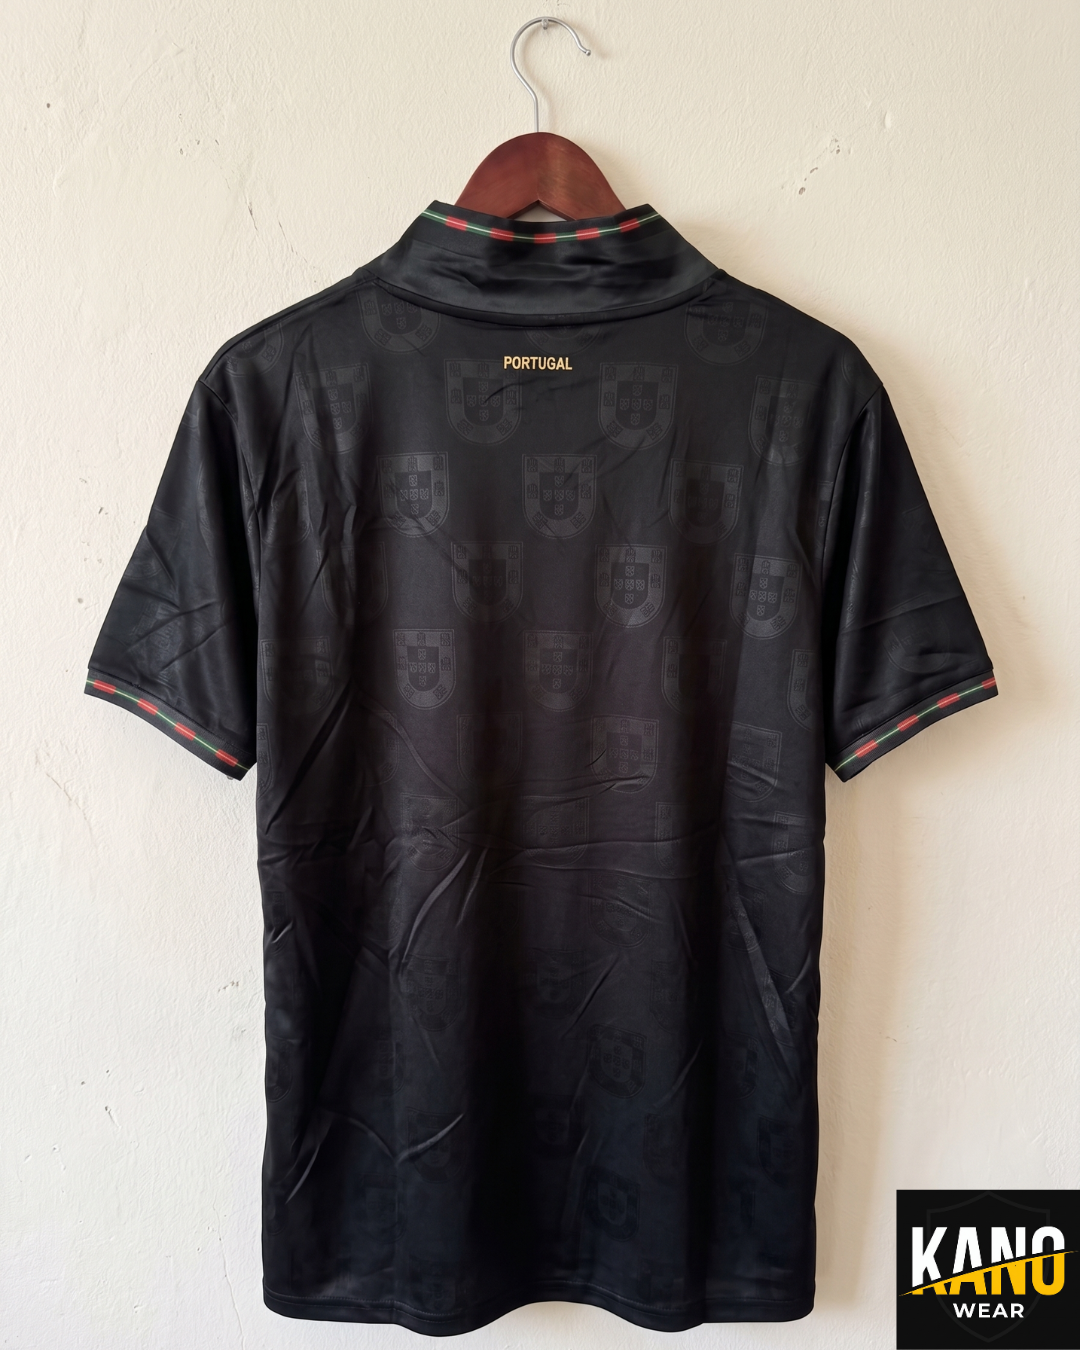
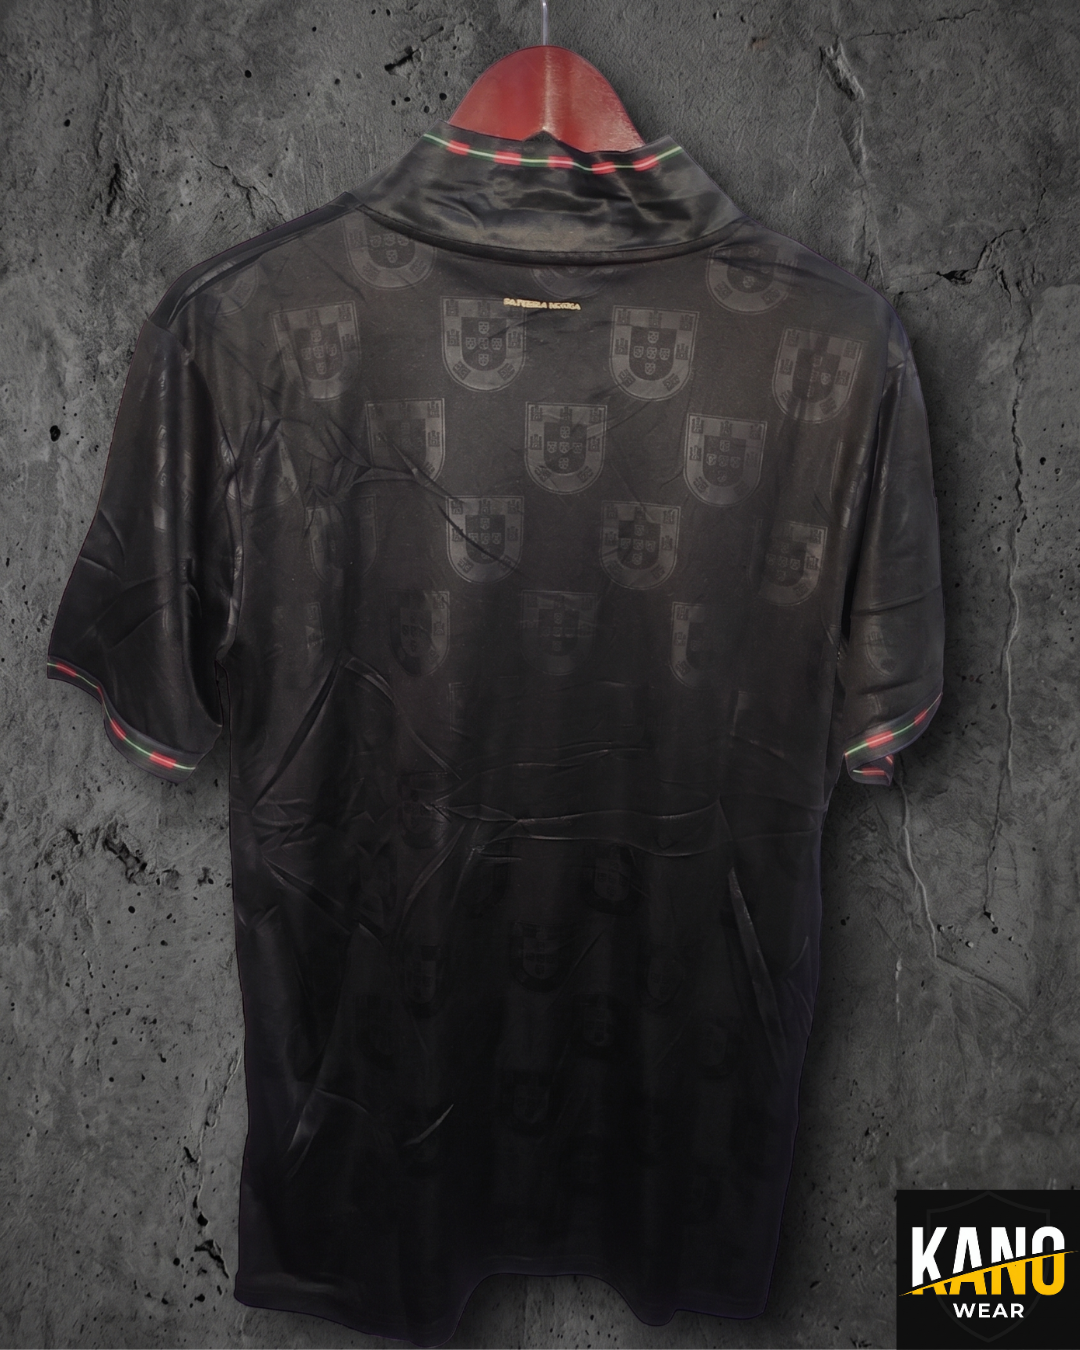
fondo_oscuro

diff --git a/index.html b/index.html
@@ -243,9 +243,9 @@ const PRODUCTS = [
     badge: "🆕 Nueva",
     description: "Un diseño clásico e imponente. La camiseta de Alemania presenta tecnología de enfriamiento HEAT.RDY y los detalles oficiales de la selección.",
     images: [
-      "img/alemania/2.png",
-      "img/alemania/1.png",
-      "img/alemania/3.png"
+      "img/alemania/7.png",
+      "img/alemania/8.png",
+      "img/alemania/9.png"
     ],
     sizes: { "S": true, "M": false, "L": true, "XL": false }
   },
@@ -277,9 +277,9 @@ const PRODUCTS = [
     description: "Un diseño clásico e imponente. La camiseta de Alemania presenta tecnología de enfriamiento HEAT.RDY y los detalles oficiales de la selección.",
     images: [
       
-      "img/francia/1.png",
-      "img/francia/2.png",
-      "img/francia/3.png"
+      "img/francia/4.png",
+      "img/francia/5.png",
+      "img/francia/6.png"
     ],
     sizes: { "S": true, "M": false, "L": true, "XL": false }
   },
@@ -313,9 +313,9 @@ const PRODUCTS = [
     // Aquí pones la portada, las fotos extra y el gif al final
     images: [
       
-      "img/argentinaV/1.png",
-      "img/argentinaV/2.png",
-      "img/argentinaV/3.png"      // GIF (Ejemplo)
+      "img/argentinaV/10.png",
+      "img/argentinaV/11.png",
+      "img/argentinaV/12.png"      // GIF (Ejemplo)
     ],
     // Control de inventario: true = disponible, false = agotada
     sizes: {
@@ -385,9 +385,9 @@ const PRODUCTS = [
     badge: "🚨 Pocas Unidades",
     description: "Un diseño clásico e imponente. La camiseta de España presenta tecnología de enfriamiento HEAT.RDY y los detalles oficiales de la selección.",
     images: [
-      "img/españa/2.png",
-      "img/españa/1.png",
-      "img/españa/3.png"
+      "img/españa/13.png",
+      "img/españa/14.png",
+      "img/españa/15.png"
     ],
     sizes: { "S": true, "M": false, "L": true, "XL": false }
   },